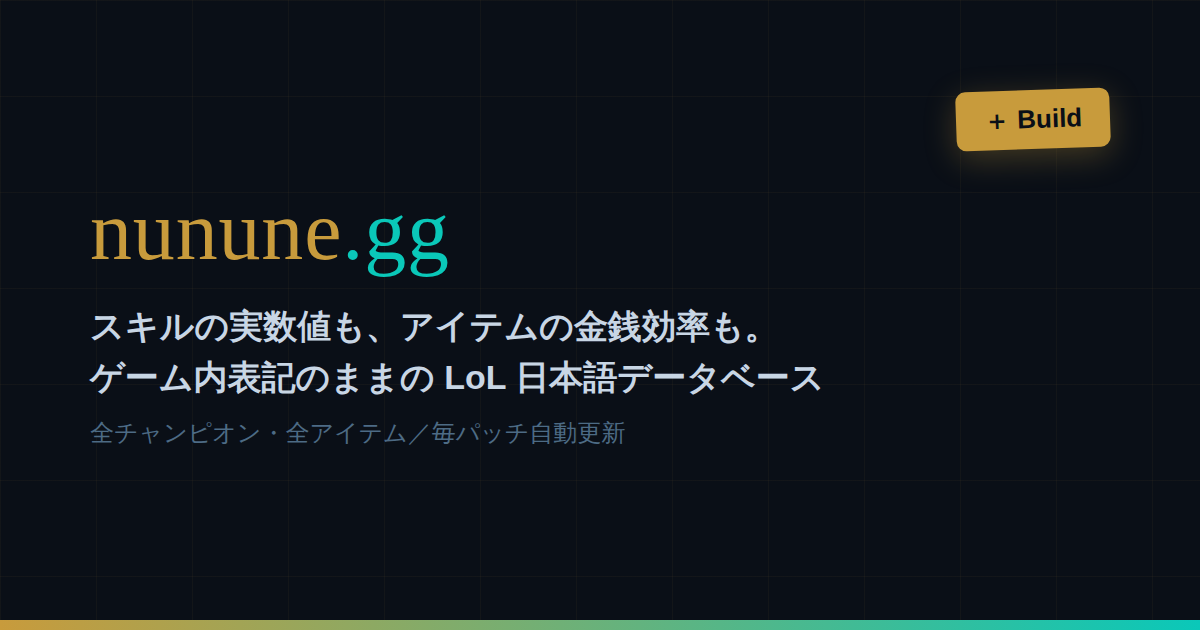
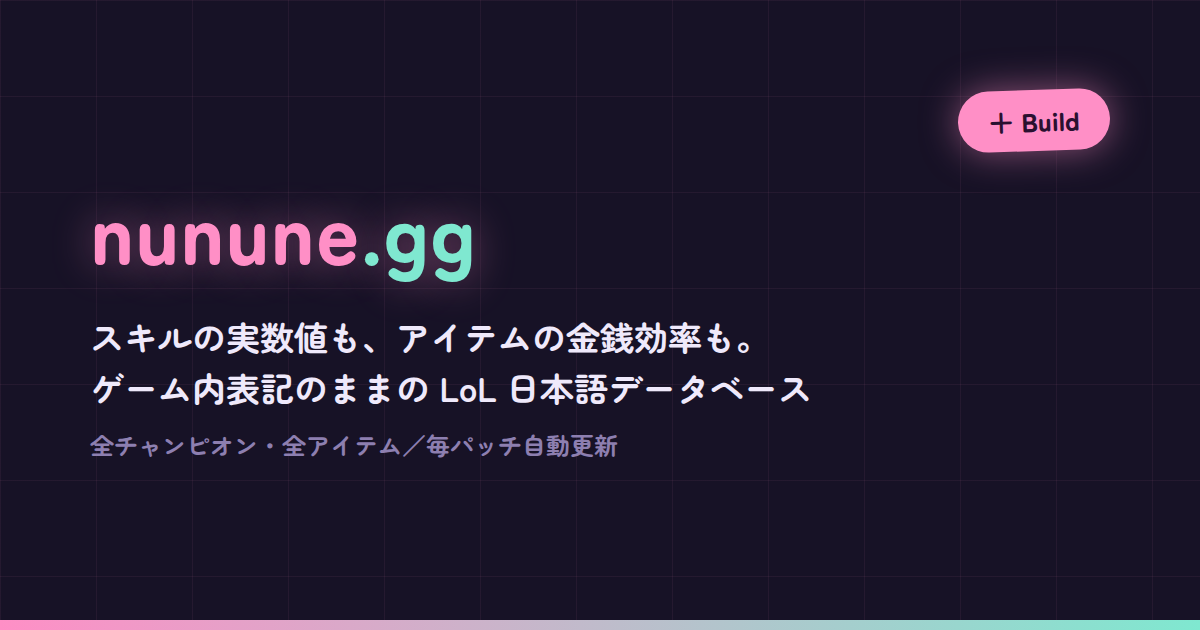
デザインをD案「星屑ラウンジ」に刷新（プラム×さくら×ミント、Zen Maru Gothic）
- パレット: 背景#171226 / カード#221A38 / primary=さくら#FF8FC6 /
  第2アクセント=ミント#7FE8D0 / 金銭専用トークン --color-gold #E8B34B を新設
- フォント: Marcellus を廃止し Zen Maru Gothic(400/500/700/900) を
  見出し・本文の両方に採用（Noto Sans JP 可変はフォールバック）
- 角丸スケールを「まる文法」に拡大 (xs5/sm8/md12/lg16/2xl24)
- シグネチャ「星屑グロー」: ヒーローのパッチ番号・Buildボタン・タブ下線・
  ステータスゲージにさくら色のソフト発光
- 金額表示(価格/合計G)を text-gold へ分離（pink=操作、gold=金銭の意味分担）
- richTextの金色/Mythic色をプラム背景向けに調整（テスト追随）
- OGP画像を新テーマで再生成、theme-color更新

Claude-Session: https://claude.ai/code/session_01UsuTHjeyuciAG1mANt54UG

Changed region(s): [[0.0617, 0.3317, 0.6783, 0.7238], [0.0, 0.9651, 1.0, 1.0], [0.7708, 0.0905, 0.9558, 0.2714]]

diff --git a/frontend/src/styles/theme.css b/frontend/src/styles/theme.css
@@ -1,19 +1,20 @@
 @import "tailwindcss";
 @theme {
-  /* ── 基調色 ──────────────────────────────────────── */
-  --color-background:         #0A0F17;
-  --color-foreground:         #C8D6E5;
-  --color-card:               #111B28;
-  --color-primary:            #C89B3C; /* 金: アクティブ状態・金銭情報のみに使う */
-  --color-primary-foreground: #0A0F17;
-  --color-secondary:          #162030;
-  --color-muted:              #111B28;
-  --color-muted-foreground:   #4D6B85;
-  --color-accent:             #1A3454;
-  --color-hextech:            #0AC8B9; /* ヘクステック青緑: 第2アクセント */
-  --color-destructive:        #E84057;
-  --color-border:             #1B2B3C;
-  --color-ring:               #C89B3C;
+  /* ── 基調色「星屑ラウンジ」: 深いプラム×さくら×ミント ── */
+  --color-background:         #171226;
+  --color-foreground:         #EFE9FB;
+  --color-card:               #221A38;
+  --color-primary:            #FF8FC6; /* さくら: アクティブ状態・操作の入り口 */
+  --color-primary-foreground: #2A1030;
+  --color-secondary:          #2B2247;
+  --color-muted:              #221A38;
+  --color-muted-foreground:   #8D7FB0;
+  --color-accent:             #3A2D5E;
+  --color-hextech:            #7FE8D0; /* ミント: 第2アクセント（NEW・変更バッジ） */
+  --color-gold:               #E8B34B; /* 金: 金銭情報専用（価格・合計G） */
+  --color-destructive:        #FF6B81;
+  --color-border:             #372B55;
+  --color-ring:               #FF8FC6;
 
   /* ── ダメージ・ステータス色（ツールチップ内の数値装飾）── */
   --color-dmg-physical: #F58B3D;
@@ -28,16 +29,16 @@
   --color-stat-ms:      #F9E4B7;
 
   /* ── フォント ────────────────────────────────────── */
-  /* 見出し（欧文）: LoL 公式 Beaufort に近いセリフ。和文は Noto にフォールバック */
-  --font-display: 'Marcellus', 'Noto Sans JP Variable', serif;
-  --font-sans:    'Noto Sans JP Variable', system-ui, sans-serif;
+  /* 丸ゴがサイトの声。見出しは900、本文は400/500。Noto可変はフォールバック */
+  --font-display: 'Zen Maru Gothic', 'Noto Sans JP Variable', sans-serif;
+  --font-sans:    'Zen Maru Gothic', 'Noto Sans JP Variable', system-ui, sans-serif;
 
-  /* ── 角丸（統一スケール）──────────────────────────── */
-  --radius-xs: 3px;
-  --radius-sm: 4px;   /* 小さなチップ・サムネイル */
-  --radius-md: 6px;   /* カード・入力欄・ボタン */
-  --radius-lg: 10px;
-  --radius-2xl: 20px; /* ボトムシートの上端のみ */
+  /* ── 角丸（統一スケール・まる文法）─────────────────── */
+  --radius-xs: 5px;
+  --radius-sm: 8px;   /* 小さなチップ・サムネイル */
+  --radius-md: 12px;  /* カード・入力欄・ボタン */
+  --radius-lg: 16px;
+  --radius-2xl: 24px; /* ボトムシートの上端のみ */
 }
 
 /* ダークテーマをUAに伝える（スクロールバー・フォーム部品・rangeスライダーの描画） */
@@ -118,11 +119,11 @@ button, a, input, [role="button"] {
   outline-offset: 2px;
 }
 
-/* アイテムページ: 設計図モチーフの薄いグリッド背景 */
+/* アイテムページ: 設計図モチーフの薄いグリッド背景（さくら色の方眼） */
 .assembly-stage {
   background-image:
-    linear-gradient(rgba(200, 155, 60, .04) 1px, transparent 1px),
-    linear-gradient(90deg, rgba(200, 155, 60, .04) 1px, transparent 1px);
+    linear-gradient(rgba(255, 143, 198, .05) 1px, transparent 1px),
+    linear-gradient(90deg, rgba(255, 143, 198, .05) 1px, transparent 1px);
   background-size: 96px 96px;
 }
 

diff --git a/frontend/src/app/pages/ItemDetail.tsx b/frontend/src/app/pages/ItemDetail.tsx
@@ -87,7 +87,7 @@ function MaterialNode({ item }: { item: PathItem }) {
       <img src={item.imageUrl} alt="" className="w-10 h-10 rounded-sm border border-border flex-shrink-0" loading="lazy" />
       <div className="min-w-0">
         <p className="text-xs font-semibold text-foreground leading-tight line-clamp-2">{item.name}</p>
-        <p className="text-[11px] text-primary tabular-nums mt-0.5">{item.gold}G</p>
+        <p className="text-[11px] text-gold tabular-nums mt-0.5">{item.gold}G</p>
       </div>
     </Link>
   );
@@ -117,7 +117,7 @@ function EvolutionCluster({ into }: { into: PathItem[] }) {
             <img src={up.imageUrl} alt="" className="w-10 h-10 rounded-sm border border-primary/40 flex-shrink-0" loading="lazy" />
             <div className="min-w-0">
               <p className="text-[11.5px] font-semibold leading-tight line-clamp-2">{up.name}</p>
-              <p className="text-[10px] text-primary tabular-nums">{up.gold}G</p>
+              <p className="text-[10px] text-gold tabular-nums">{up.gold}G</p>
             </div>
           </Link>
         ))}
@@ -379,7 +379,7 @@ export function ItemDetail() {
                 src={item.imageUrl}
                 alt={item.name}
                 className="w-24 h-24 mx-auto rounded-lg border-2 border-primary/70
-                  shadow-[0_0_0_5px_rgba(200,155,60,.08),0_0_36px_rgba(200,155,60,.14)]"
+                  shadow-[0_0_0_5px_rgba(255,143,198,.10),0_0_36px_rgba(255,143,198,.18)]"
               />
 
               <div className="mt-3 flex items-center justify-center gap-2 flex-wrap">
@@ -396,10 +396,10 @@ export function ItemDetail() {
                 )}
               </div>
               {item.englishName && item.englishName !== item.name && (
-                <p className="font-display text-sm text-primary/80 mt-0.5">{item.englishName}</p>
+                <p className="font-display font-bold text-sm text-primary/80 mt-0.5">{item.englishName}</p>
               )}
 
-              <p className="mt-2 text-xl font-bold text-primary tabular-nums">
+              <p className="mt-2 text-xl font-bold text-gold tabular-nums">
                 {item.gold.total}<span className="text-xs font-semibold ml-0.5">G</span>
               </p>
 
@@ -426,9 +426,9 @@ export function ItemDetail() {
               <button
                 onClick={handleStack}
                 disabled={!canStack}
-                className={`mt-4 inline-flex items-center gap-1.5 rounded-md px-5 py-2 text-sm font-bold transition-transform
+                className={`mt-4 inline-flex items-center gap-1.5 rounded-full px-6 py-2 text-sm font-black transition-transform
                   ${canStack
-                    ? 'bg-primary text-primary-foreground -rotate-1 shadow-[0_4px_16px_rgba(200,155,60,.25)] hover:-rotate-2 hover:scale-[1.03] active:scale-95'
+                    ? 'bg-primary text-primary-foreground -rotate-1 shadow-[0_0_18px_rgba(255,143,198,.45)] hover:-rotate-2 hover:scale-[1.03] active:scale-95'
                     : 'bg-secondary text-muted-foreground cursor-default'}`}
               >
                 {inTray

diff --git a/frontend/src/app/components/BuildTray.tsx b/frontend/src/app/components/BuildTray.tsx
@@ -27,12 +27,12 @@ interface StatTotal {
 
 function GradeChip({ grade }: { grade: 'S' | 'A' | 'B' | 'C' }) {
   const style =
-    grade === 'S' ? 'border-primary text-primary shadow-[0_0_10px_rgba(200,155,60,.45)]'
+    grade === 'S' ? 'border-primary text-primary shadow-[0_0_10px_rgba(255,143,198,.5)]'
     : grade === 'A' ? 'border-hextech/70 text-hextech'
     : 'border-border text-muted-foreground';
   return (
     <span
-      className={`inline-flex items-center justify-center w-6 h-6 rounded-sm border font-display text-sm leading-none ${style}`}
+      className={`inline-flex items-center justify-center w-6 h-6 rounded-sm border font-display font-black text-sm leading-none ${style}`}
       title={`ビルド効率グレード ${grade}`}
     >
       {grade}
@@ -160,7 +160,7 @@ export function BuildTray() {
       )}
 
       {/* 本体バー（safe-area: iPhoneホームバーとの重なり回避） */}
-      <div className="border-t border-primary/40 bg-[#0D141F] pb-[env(safe-area-inset-bottom)]">
+      <div className="border-t border-primary/40 bg-[#1D1631] pb-[env(safe-area-inset-bottom)]">
         <div className="container mx-auto px-3 sm:px-4 max-w-4xl flex items-center gap-2.5 sm:gap-4 h-16">
           <button
             onClick={() => setExpanded(v => !v)}
@@ -223,7 +223,7 @@ export function BuildTray() {
             <div className="flex flex-col items-end sm:flex-row sm:items-center sm:gap-5 flex-shrink-0">
               <div className="flex items-baseline gap-1.5">
                 <span className="hidden sm:inline text-[11px] text-foreground/70">合計</span>
-                <span className="text-base sm:text-lg font-bold text-primary tabular-nums leading-tight">
+                <span className="text-base sm:text-lg font-bold text-gold tabular-nums leading-tight">
                   {Math.round(goldDisp).toLocaleString()}G
                 </span>
               </div>

diff --git a/frontend/src/app/utils/richText.ts b/frontend/src/app/utils/richText.ts
@@ -108,15 +108,15 @@ export function processItemDescription(raw: string): string {
   s = s.replace(/<mainText>/gi, '').replace(/<\/mainText>/gi, '');
   s = s.replace(/<stats>/gi, '<div class="item-stats">').replace(/<\/stats>/gi, '</div>');
   s = s.replace(/<br\s*\/?>/gi, '<br>');
-  s = s.replace(/<attention>/gi, '<strong style="color:#C89B3C">').replace(/<\/attention>/gi, '</strong>');
+  s = s.replace(/<attention>/gi, '<strong style="color:#E8B34B">').replace(/<\/attention>/gi, '</strong>');
   s = s.replace(/<passive>/gi, '<strong class="text-muted-foreground">').replace(/<\/passive>/gi, '</strong>');
   s = s.replace(/<active>/gi, '<strong class="text-muted-foreground">').replace(/<\/active>/gi, '</strong>');
   s = s.replace(/<ornnBonus>/gi, '<span class="text-primary/70">').replace(/<\/ornnBonus>/gi, '</span>');
-  s = s.replace(/<gold>/gi, '<span style="color:#C89B3C">').replace(/<\/gold>/gi, '</span>');
+  s = s.replace(/<gold>/gi, '<span style="color:#E8B34B">').replace(/<\/gold>/gi, '</span>');
   s = s.replace(/<keyword>/gi, '<strong>').replace(/<\/keyword>/gi, '</strong>');
   s = s.replace(/<keywordMajor>/gi, '<strong>').replace(/<\/keywordMajor>/gi, '</strong>');
-  s = s.replace(/<rarityLegendary>/gi, '<strong style="color:#C89B3C">').replace(/<\/rarityLegendary>/gi, '</strong>');
-  s = s.replace(/<rarityMythic>/gi,    '<strong style="color:#5383E8">').replace(/<\/rarityMythic>/gi,    '</strong>');
+  s = s.replace(/<rarityLegendary>/gi, '<strong style="color:#E8B34B">').replace(/<\/rarityLegendary>/gi, '</strong>');
+  s = s.replace(/<rarityMythic>/gi,    '<strong style="color:#BCA6FF">').replace(/<\/rarityMythic>/gi,    '</strong>');
   s = s.replace(/<rarityGeneric>/gi,   '<strong>').replace(/<\/rarityGeneric>/gi,   '</strong>');
   s = s.replace(/<unimportant>/gi, '<span style="opacity:0.55">').replace(/<\/unimportant>/gi, '</span>');
   s = s.replace(/<rules>/gi, '<em style="opacity:0.7">').replace(/<\/rules>/gi, '</em>');

diff --git a/frontend/src/main.tsx b/frontend/src/main.tsx
@@ -1,8 +1,11 @@
 import { StrictMode } from 'react'
 import { createRoot } from 'react-dom/client'
 // フォントはセルフホスト（Google Fonts への外部リクエストなし）
-// Noto Sans JP は可変フォント1系統で全ウェイトをカバー（CSS・転送量とも削減）
-import '@fontsource/marcellus/400.css'
+// Zen Maru Gothic（丸ゴ）がサイトの声。Noto Sans JP 可変はグリフ欠け時のフォールバック
+import '@fontsource/zen-maru-gothic/400.css'
+import '@fontsource/zen-maru-gothic/500.css'
+import '@fontsource/zen-maru-gothic/700.css'
+import '@fontsource/zen-maru-gothic/900.css'
 import '@fontsource-variable/noto-sans-jp'
 import './styles/theme.css'
 import App from './app/App.tsx'

diff --git a/frontend/src/app/pages/ChampionDetail.tsx b/frontend/src/app/pages/ChampionDetail.tsx
@@ -221,7 +221,7 @@ function StatGauges({ self, entries }: { self: ChampStatEntry; entries: ChampSta
               </div>
               <div className="relative h-1 bg-secondary/80 rounded-full mt-1.5">
                 <div
-                  className="absolute inset-y-0 left-0 bg-primary/85 rounded-full transition-[width] duration-300"
+                  className="absolute inset-y-0 left-0 bg-primary/85 rounded-full shadow-[0_0_8px_rgba(255,143,198,.5)] transition-[width] duration-300"
                   style={{ width: `${g ? g.fillPct : 0}%` }}
                 />
               </div>
@@ -416,7 +416,7 @@ export function ChampionDetail() {
         </div>
 
         <div className="relative container mx-auto px-4 max-w-5xl pt-24 sm:pt-36 pb-6">
-          <p className="font-display text-sm text-primary/90 -rotate-2 inline-block">{englishChampionName(champion.id)}</p>
+          <p className="font-display font-bold text-sm text-primary/90 -rotate-2 inline-block">{englishChampionName(champion.id)}</p>
           <div className="flex flex-wrap items-baseline gap-x-3 gap-y-0.5 mt-0.5">
             <h1 className="text-4xl font-bold text-foreground tracking-tight">{champion.name}</h1>
             {champion.title && (

diff --git a/frontend/src/app/pages/Home.tsx b/frontend/src/app/pages/Home.tsx
@@ -129,7 +129,7 @@ export function Home() {
       <header className="border-b border-border">
         <div className="container mx-auto px-4 max-w-6xl h-14 flex items-center justify-between">
           <div className="flex items-baseline gap-2.5 min-w-0">
-            <h1 className="font-display font-normal text-xl text-primary tracking-wide whitespace-nowrap">
+            <h1 className="font-display font-black text-xl text-primary tracking-wide whitespace-nowrap">
               nunune<span className="text-hextech">.gg</span>
             </h1>
             <p className="hidden sm:block text-xs text-muted-foreground truncate">League of Legends データベース</p>
@@ -148,7 +148,7 @@ export function Home() {
           <h2 className="text-center text-xl sm:text-2xl font-bold text-foreground leading-snug text-balance">
             {version ? (
               <>
-                「<span className="font-display font-normal text-primary tracking-wide">{displayPatch(version)}</span>」の実数値、ぜんぶ。
+                「<span className="font-display font-black text-primary tracking-wide [text-shadow:0_0_18px_rgba(255,143,198,.55)]">{displayPatch(version)}</span>」の実数値、ぜんぶ。
               </>
             ) : (
               <>実数値、ぜんぶ。</>

diff --git a/frontend/index.html b/frontend/index.html
@@ -8,7 +8,7 @@
     <link rel="preconnect" href="https://raw.communitydragon.org" />
     <title>nunune.gg — LoL 日本語データベース</title>
     <meta name="description" content="League of Legends の全チャンピオンのスキル実数値と全アイテムの金銭効率を、ゲーム内表記のまま日本語で。ステータスをタップすると、それが得られるアイテムへ最短で辿り着けます。" />
-    <meta name="theme-color" content="#0A0F17" />
+    <meta name="theme-color" content="#171226" />
     <link rel="canonical" href="https://nunune.gg/" />
 
     <!-- OGP -->

diff --git a/frontend/src/app/components/TabsFilter.tsx b/frontend/src/app/components/TabsFilter.tsx
@@ -28,7 +28,7 @@ export function TabsFilter({ activeTab, onTabChange }: TabsFilterProps) {
           >
             {tab.label}
             {active && (
-              <span className="absolute bottom-0 left-0 right-0 h-0.5 bg-primary" />
+              <span className="absolute bottom-0 left-0 right-0 h-0.5 rounded-full bg-primary shadow-[0_0_10px_rgba(255,143,198,.65)]" />
             )}
           </button>
         );

diff --git a/frontend/src/app/pages/NotFound.tsx b/frontend/src/app/pages/NotFound.tsx
@@ -6,7 +6,7 @@ export function NotFound() {
 
   return (
     <div className="min-h-[60vh] flex flex-col items-center justify-center gap-4 px-4">
-      <p className="font-display text-5xl text-primary/70">404</p>
+      <p className="font-display font-black text-5xl text-primary/70">404</p>
       <p className="text-sm text-muted-foreground text-center">
         お探しのページは見つかりませんでした。<br />
         パッチで削除されたのかもしれません。

diff --git a/frontend/src/app/utils/richText.test.ts b/frontend/src/app/utils/richText.test.ts
@@ -28,7 +28,7 @@ describe('processItemDescription', () => {
       '<mainText><stats>攻撃力 65</stats><attention>40%</attention>増加</mainText>',
     );
     expect(out).toContain('<div class="item-stats">攻撃力 65</div>');
-    expect(out).toContain('<strong style="color:#C89B3C">40%</strong>');
+    expect(out).toContain('<strong style="color:#E8B34B">40%</strong>');
     expect(out).not.toContain('mainText');
   });
 